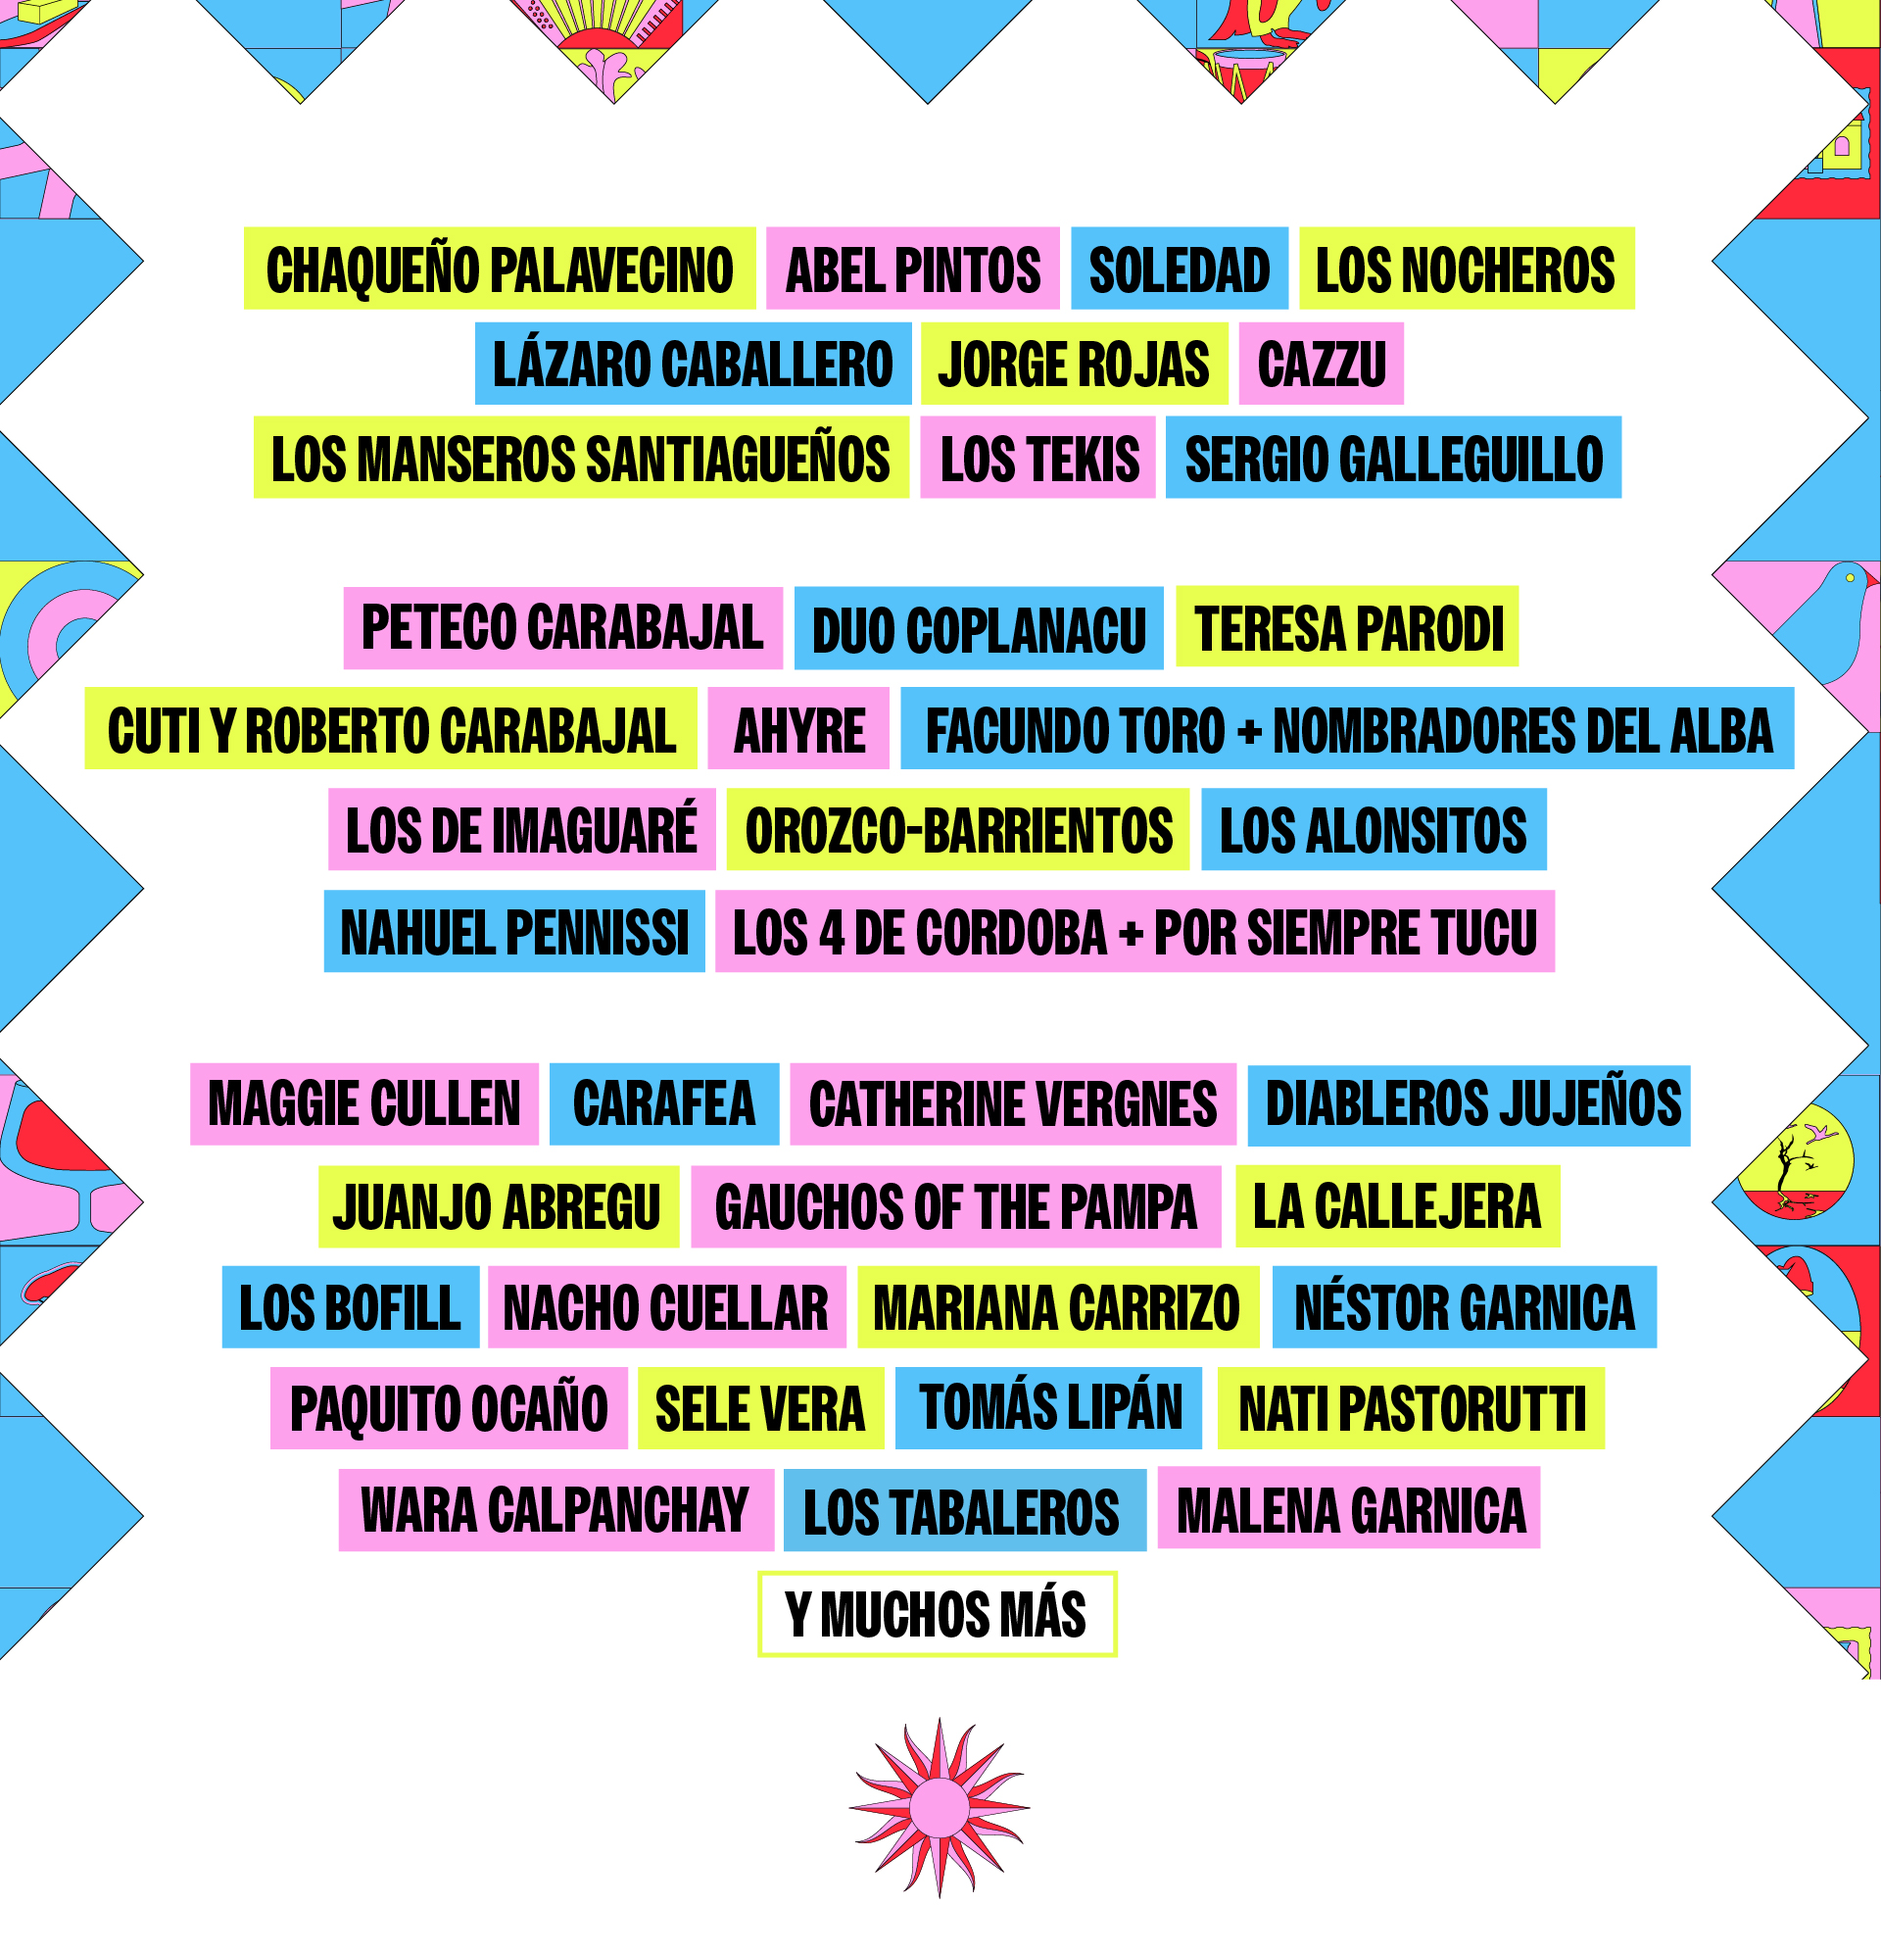
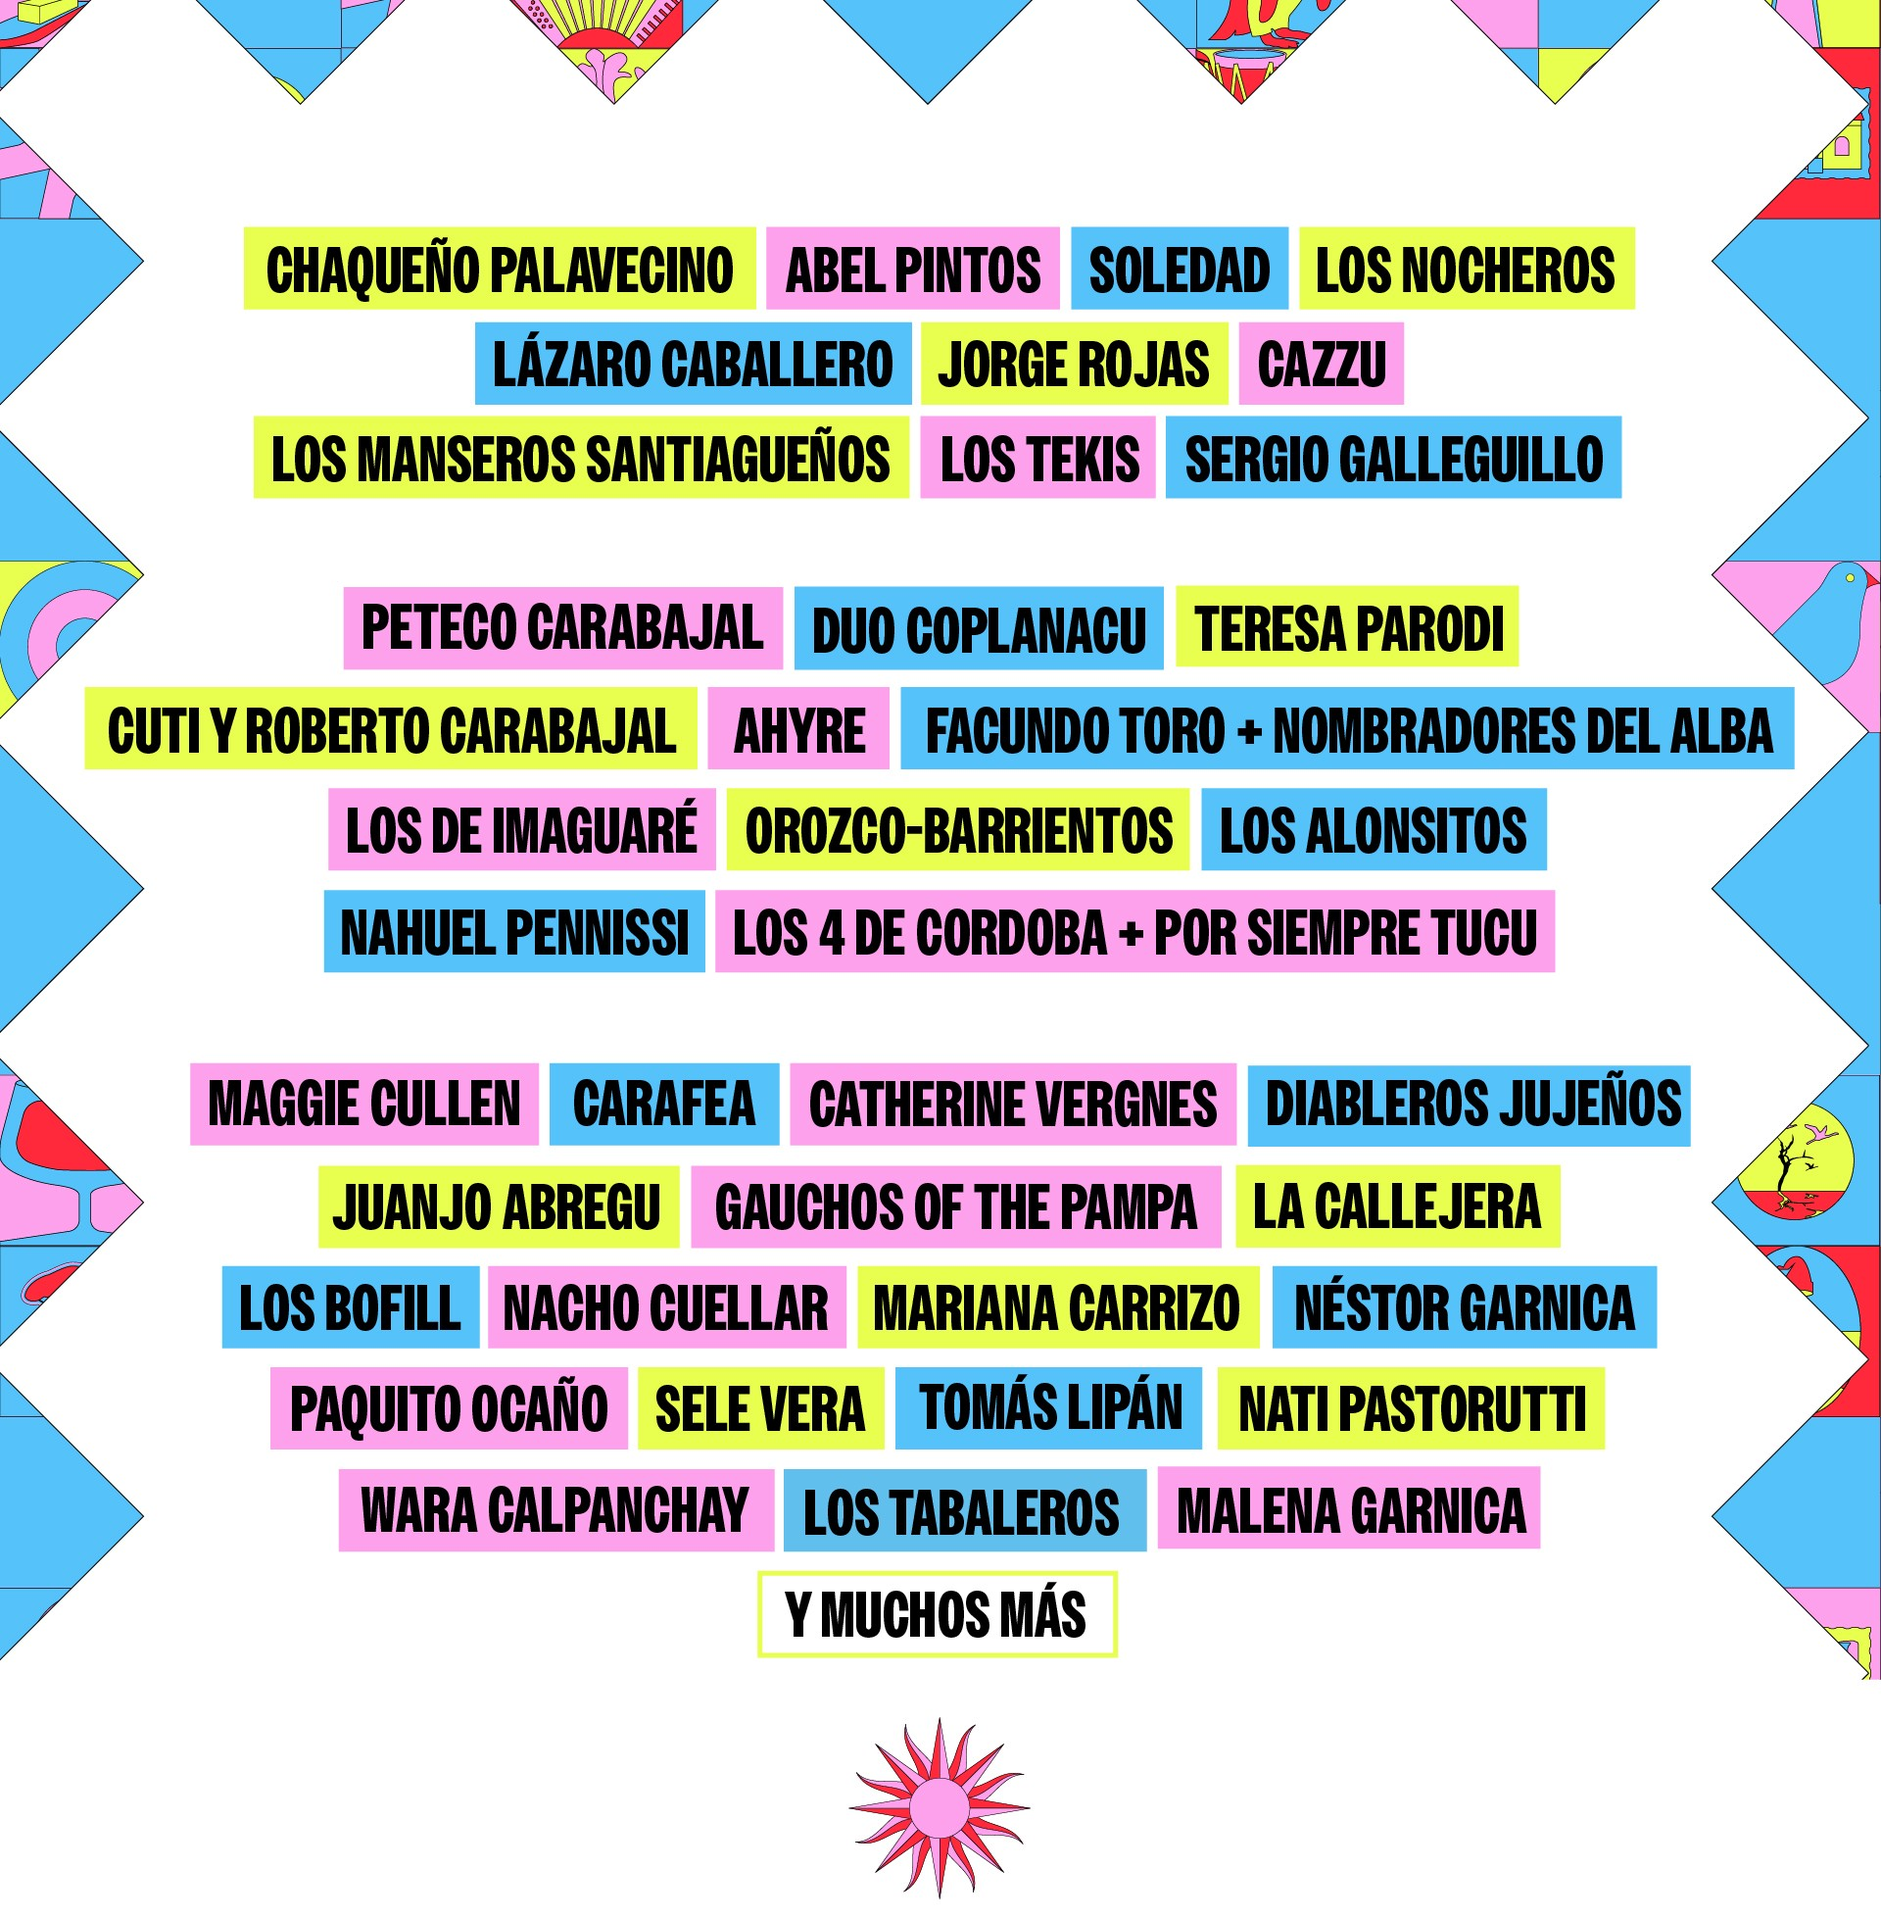
ultimos cambios v2

diff --git a/src/app/pages/home/home.component.html b/src/app/pages/home/home.component.html
@@ -8,18 +8,32 @@
           class="hero__logo"
         />
 
-        @if (!showRegister && !registrationComplete) {
-          <div class="hero__actions">
-            <button
-              type="button"
-              class="btn-hero btn-hero--register"
-              (click)="openRegister()"
-            >
-              Registrate
-            </button>
-            <a href="#" class="btn-hero btn-hero--tickets">Comprar entradas</a>
-          </div>
-        }
+        <a
+          href="https://www.allaccess.com.ar/event/republica-folklore"
+          target="_blank"
+          rel="noopener noreferrer"
+          class="hero__tickets"
+          aria-label="Comprar entradas"
+        >
+          <img
+            src="assets/BOTONES/comprar%20entradas.png"
+            alt="Comprar entradas"
+            class="hero__tickets-img"
+          />
+        </a>
+        <a
+        href="https://www.youtube.com/watch?v=7tCV6B5C6SE"
+        target="_blank"
+        rel="noopener noreferrer"
+        class="home__video-cta"
+        aria-label="Ver video"
+      >
+        <img
+          src="assets/BOTONES/BOTON%20VER%20COMPLETO.jpg.jpeg"
+          alt="Ver video"
+          class="home__video-cta-img"
+        />
+      </a>
       </div>
     </div>
   </section>
@@ -64,21 +78,6 @@
 
   <app-footer />
 
-  <a
-    href="https://www.youtube.com/watch?v=7tCV6B5C6SE"
-    target="_blank"
-    rel="noopener noreferrer"
-    class="home__video-cta"
-    aria-label="Ver video"
-  >
-    <img
-      src="assets/BOTONES/BOTON%20VER%20COMPLETO.jpg.jpeg"
-      alt="Ver video"
-      class="home__video-cta-img"
-    />
-  </a>
+ 
 
-  @if (showRegister) {
-    <app-register-modal (registrationSuccess)="onRegistrationSuccess()" />
-  }
 </div>

diff --git a/src/app/pages/home/home.component.ts b/src/app/pages/home/home.component.ts
@@ -1,39 +1,11 @@
-import { Component, OnDestroy, OnInit } from '@angular/core';
-import { environment } from '../../../environments/environment';
-import { RegisterModalComponent } from '../../components/register-modal/register-modal.component';
+import { Component } from '@angular/core';
 import { FooterComponent } from '../../components/footer/footer.component';
 
 @Component({
   selector: 'app-home',
   standalone: true,
-  imports: [RegisterModalComponent, FooterComponent],
+  imports: [FooterComponent],
   templateUrl: './home.component.html',
   styleUrl: './home.component.css',
 })
-export class HomeComponent implements OnInit, OnDestroy {
-  showRegister = false;
-  registrationComplete = false;
-  private successCloseTimer: ReturnType<typeof setTimeout> | null = null;
-
-  ngOnInit(): void {
-    this.showRegister = environment.registrationGateEnabled;
-  }
-
-  ngOnDestroy(): void {
-    if (this.successCloseTimer !== null) {
-      clearTimeout(this.successCloseTimer);
-    }
-  }
-
-  openRegister(): void {
-    this.showRegister = true;
-  }
-
-  onRegistrationSuccess(): void {
-    this.registrationComplete = true;
-    this.successCloseTimer = setTimeout(() => {
-      this.showRegister = false;
-      this.successCloseTimer = null;
-    }, 1000);
-  }
-}
+export class HomeComponent {}

diff --git a/src/app/pages/home/home.component.css b/src/app/pages/home/home.component.css
@@ -37,22 +37,22 @@
   object-fit: contain;
 }
 
-.hero__actions {
-  display: flex;
-  flex-direction: column;
-  gap: 0.5rem;
+.hero__tickets {
+  display: block;
+  line-height: 0;
+  transition: transform 0.15s ease;
+}
+
+.hero__tickets:hover {
+  transform: scale(1.05);
+}
+
+.hero__tickets-img {
+  display: block;
   width: 100%;
-  max-width: 22rem;
-}
-
-.btn-hero--register {
-  background: var(--color-red);
-  color: #000000;
-}
-
-.btn-hero--tickets {
-  background: var(--color-blue);
-  color: #000000;
+  max-width: min(70vw, 14rem);
+  height: auto;
+  object-fit: contain;
 }
 
 .home__video-cta {
@@ -156,16 +156,8 @@
     gap: 2rem;
   }
 
-  .hero__actions {
-    flex-direction: row;
-    flex-wrap: wrap;
-    justify-content: center;
-    max-width: none;
-    gap: 0.625rem;
-  }
-
-  .btn-hero {
-    min-width: 10.5rem;
+  .hero__tickets-img {
+    max-width: min(55vw, 18rem);
   }
 
   .manifesto__visual--mobile {
@@ -197,7 +189,7 @@
     max-height: 62vh;
   }
 
-  .btn-hero {
-    min-width: 12rem;
+  .hero__tickets-img {
+    max-width: min(45vw, 20rem);
   }
 }
